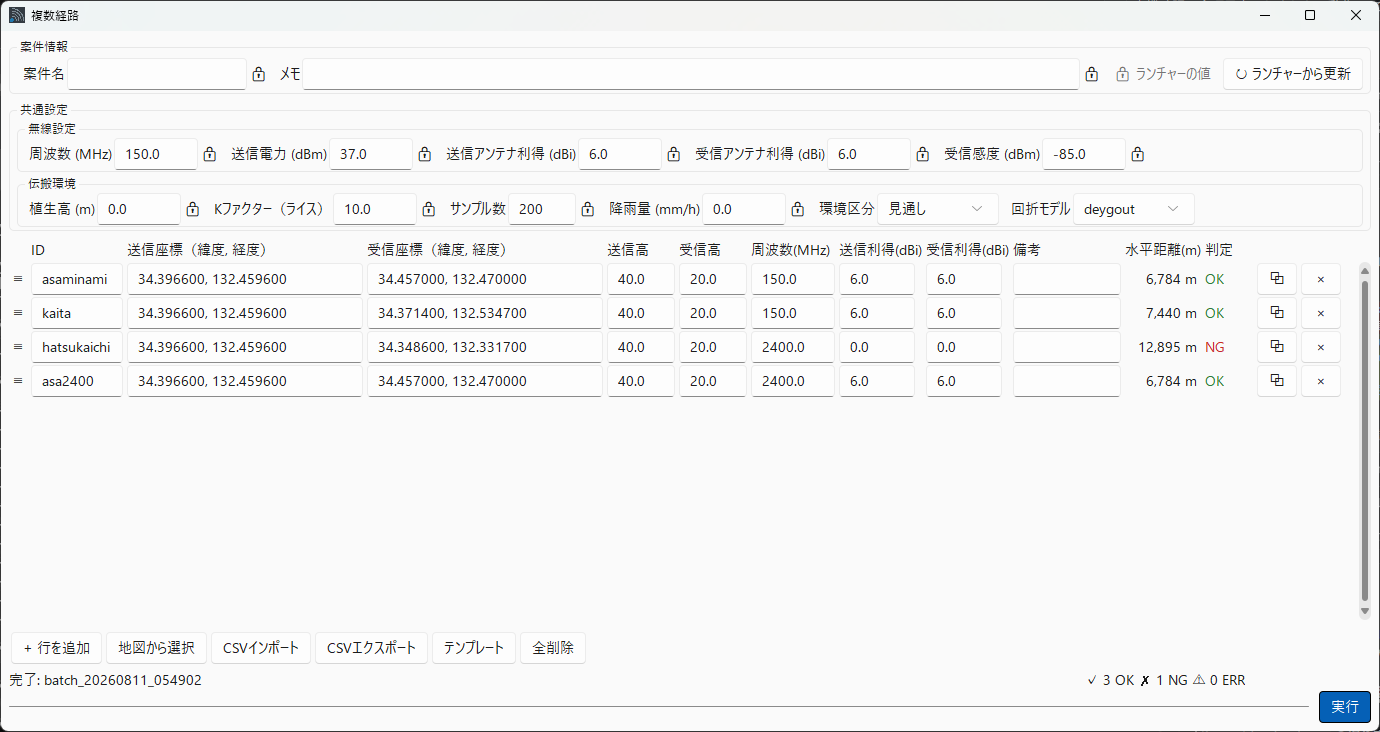
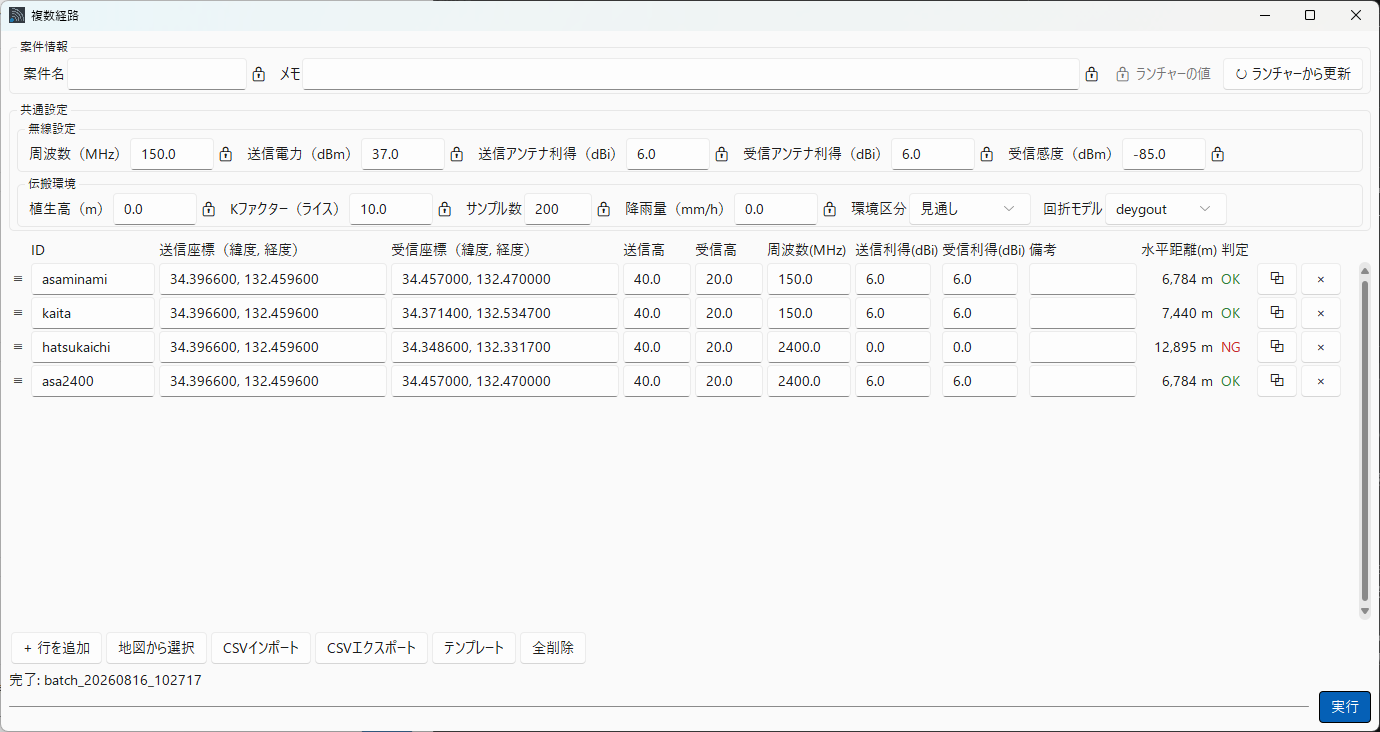
chore: 2.8RC1 へ（単位の括弧を単一ソース化・スクショ差し替え・B-100 起票）
版:
- core/version.py APP_VERSION を 2.8RC1
- CHANGELOG 見出しを（ベータ）→（RC）、ドキュメント/開発環境の節を追加

単位の括弧（ユーザー指示で RC1 に入れる）:
条件探索の画面とレポートだけ半角括弧が残っており、2.8 の「共通設定の括弧を
全角に統一した」という宣言と食い違っていた。直書きは画面 2・レポート 3 の
計 5 か所。括り方そのものを i18n の unit_wrap が持つ形にし（ja は全角・
en は半角＝言語ごとに違う）、report_scenario.with_unit() へ集約した。
再発防止ゲートと変異検証つき。

公開文書:
- 開発者文書（日英）に独立レビューの回し方と、その限界の開示を追加
- スクショ 3 枚を差し替え（複数経路＝帯の集計撤去と全角括弧／条件探索＝全角
  括弧／中継経路＝2.8 で入った ＋ ボタン）
- CHANGELOG の誤記を訂正＝「ウィンドウは大きさを変えられない」はランチャー
  限定で、条件探索・中継経路は可変（利用者に回復手段を狭く伝えていた）

B-100 を起票（行き先 2.9）＝中継経路の判定列が実機だけ右へ見切れる。
開発機では再現せず、処方を 2 回出して 2 回とも外したので、原因未特定のまま
実機で数字を取ることを着手条件にした。

diff --git a/report/report_scenario.py b/report/report_scenario.py
@@ -71,11 +71,21 @@ def _param_text(key: str, value) -> str:
     return f"{value:g}" if isinstance(value, (int, float)) else str(value)
 
 
+def with_unit(name: str, unit: str) -> str:
+    """項目名に単位を添える（例: ``送信アンテナ高（m）`` / ``TX height (m)``）。
+
+    ⚠ **括弧の字を直書きしない。** 日本語は全角・英語は半角と*言語ごとに違う*ので、
+    括り方そのものを i18n（`unit_wrap`）が持つ。直書きすると、同じ量の単位が
+    ウィンドウやレポートによって違う字で出る——**2.8 で「共通設定の括弧を全角に
+    統一した」と宣言しながら、条件探索の画面とレポートだけ半角で残っていた**
+    （2.8RC1 で処置）。宣言は口の全数を数えないと効かない。
+    """
+    return name + i18n.t("unit_wrap").format(unit=unit) if unit else name
+
+
 def axis_label(axis: str) -> str:
-    """スイープ軸の見出し（例: ``送信アンテナ高 (m)``）を返す。"""
-    name = i18n.t(f"scn_axis_{axis}")
-    unit = AXIS_UNITS.get(axis, "")
-    return f"{name} ({unit})" if unit else name
+    """スイープ軸の見出し（例: ``送信アンテナ高（m）``）を返す。"""
+    return with_unit(i18n.t(f"scn_axis_{axis}"), AXIS_UNITS.get(axis, ""))
 
 
 # ============================================================
@@ -296,8 +306,9 @@ def _sweep_table(run: scn.ScenarioRun) -> str:
     ＝連続的な変化を上から下へ追えることがスイープ表の価値だから。
     """
     head = "".join(f"<th>{h}</th>" for h in (
-        axis_label(run.axis), i18n.t("html_rx_level") + " (dBm)",
-        i18n.t("html_act_margin") + " (dB)", i18n.t("html_total_loss") + " (dB)",
+        axis_label(run.axis), with_unit(i18n.t("html_rx_level"), "dBm"),
+        with_unit(i18n.t("html_act_margin"), "dB"),
+        with_unit(i18n.t("html_total_loss"), "dB"),
         i18n.t("html_col_f1"), i18n.t("html_status"),
     ))
     rows = "".join(_sweep_row(p) for p in run.points)

diff --git a/tests/test_scenario.py b/tests/test_scenario.py
@@ -569,9 +569,17 @@ class TestScenarioReport:
         assert body.startswith("-95")
 
     def test_axis_label_carries_the_unit(self):
+        """単位が付くこと。**括弧の字は言語ごとに違う**（2.8RC1）。
+
+        ja は全角（`送信アンテナ高（m）`）・en は半角（`TX antenna height (m)`）で、
+        括り方は i18n の `unit_wrap` が単一ソース。⇒ 字を直書きして照合しない。
+        """
         i18n.set_lang("ja")
-        assert report_scenario.axis_label("h_tx").endswith("(m)")
-        assert report_scenario.axis_label("rain_rate").endswith("(mm/h)")
+        assert report_scenario.axis_label("h_tx").endswith("（m）")
+        assert report_scenario.axis_label("rain_rate").endswith("（mm/h）")
+        i18n.set_lang("en")
+        assert report_scenario.axis_label("h_tx").endswith(" (m)")
+        i18n.set_lang("ja")
 
     def test_every_sweep_axis_has_a_label_and_unit_entry(self):
         """軸を足したとき i18n / 単位表の追随漏れを落とす。"""
@@ -624,7 +632,10 @@ class TestScenarioWindowSmoke:
             assert win._sweep_axis.get() == "h_tx"
             # 画面の項目名は**単位つき**（出所は report_scenario.AXIS_UNITS ＝
             # レポートと同じ一覧。画面だけ単位が無いと何を入れる欄か分からない）。
-            assert report_scenario.axis_label("h_tx") == i18n.t("scn_axis_h_tx") + " (m)"
+            # ⚠ 括弧の字は**言語ごとに違う**ので直書きしない（2.8RC1）。
+            #    ja は全角・en は半角で、括り方は i18n の `unit_wrap` が単一ソース。
+            assert report_scenario.axis_label("h_tx") == report_scenario.with_unit(
+                i18n.t("scn_axis_h_tx"), "m")
         finally:
             win.destroy(); root.destroy()
 

diff --git a/tests/test_ui_consistency.py b/tests/test_ui_consistency.py
@@ -1708,3 +1708,34 @@ def test_refreshing_common_settings_clears_results_only_when_they_differ():
         )
     finally:
         root.destroy()
+
+
+# ============================================================
+# 単位の括弧を直書きしない（2.8RC1）
+# ============================================================
+def test_unit_parentheses_are_not_hardcoded():
+    """⛔ `名前 + " (dBm)"` の直書きを禁じる（括り方は i18n の `unit_wrap`）。
+
+    🔴 **2.8 は「共通設定のラベルの括弧を全角に統一した」と宣言したのに、
+    条件探索の画面とレポートだけ半角で残っていた**（画面 2 か所・レポート 3 か所）。
+    同じ量の単位が、窓によって `周波数（MHz）` と `周波数 (MHz)` の 2 通りで出る。
+    ⇒ 宣言は**口の全数を数えないと効かない**（[[feedback-user-examples-are-classes]]）。
+
+    ⚠ 括弧の字は**言語ごとに違う**（ja は全角・前の空白なし／en は半角・前に空白）
+    ので、直書きは「日本語を直すと英語が壊れる」形でもある。
+    """
+    import re as _re
+    from pathlib import Path as _Path
+
+    root = _Path(__file__).resolve().parents[1]
+    bad: list[str] = []
+    pat = _re.compile(r'\+\s*"\s*\([A-Za-z%/µ]+\)"')
+    for d in ("views", "report"):
+        for path in (root / d).glob("*.py"):
+            for n, line in enumerate(path.read_text(encoding="utf-8").splitlines(), 1):
+                if pat.search(line):
+                    bad.append(f"{path.relative_to(root)}:{n}: {line.strip()}")
+    assert not bad, (
+        "単位の括弧が直書きされている（report_scenario.with_unit を使う）:\n"
+        + "\n".join(bad)
+    )

diff --git a/core/i18n.py b/core/i18n.py
@@ -246,6 +246,10 @@ _STRINGS: dict[str, dict[str, str]] = {
         "html_single_mode":     "Single Mode",  # HTML footer (per-path)
         "html_report_memo":     "Note:",
 
+        # 単位の括り方。**言語ごとに字が違う**ので i18n が持つ（日本語は全角・
+        # 前の空白なし／英語は半角・前に空白）。ここを 1 か所にしておかないと、
+        # 画面とレポートで同じ量の単位が違う字で出る（2.8RC1 で実際にそうなった）。
+        "unit_wrap":            " ({unit})",
         "html_status":          "Status",
         "html_rx_level":        "RX Level",
         "html_act_margin":      "Act Margin",
@@ -727,6 +731,7 @@ _STRINGS: dict[str, dict[str, str]] = {
         "html_batch_mode":      "一括シミュレーション",
         "html_single_mode":     "個別シミュレーション",
         "html_report_memo":     "メモ:",
+        "unit_wrap":            "（{unit}）",
         "html_status":          "判定",
         "html_rx_level":        "受信レベル",
         "html_act_margin":      "マージン",

diff --git a/views/scenario.py b/views/scenario.py
@@ -464,8 +464,9 @@ class ScenarioWindow(tk.Toplevel):
         self._tree = ttk.Treeview(self._result_box, columns=cols, show="headings",
                                   height=_RESULT_ROWS,
                                   style=theme.table_style(self))
-        headings = (i18n.t("scn_col_label"), i18n.t("html_rx_level") + " (dBm)",
-                    i18n.t("html_act_margin") + " (dB)", i18n.t("html_status"))
+        _unit = report_scenario.with_unit
+        headings = (i18n.t("scn_col_label"), _unit(i18n.t("html_rx_level"), "dBm"),
+                    _unit(i18n.t("html_act_margin"), "dB"), i18n.t("html_status"))
         widths = (220, 130, 130, 80)
         for col, head, w in zip(cols, headings, widths):
             self._tree.heading(col, text=head)

diff --git a/CHANGELOG.md b/CHANGELOG.md
@@ -29,7 +29,7 @@
 
 ### 修正
 
-- 🔴 **ウィンドウが起動時にデスクトップの外へはみ出ることがあったのを直した**（`2.8b2`）。Windows は新しいウィンドウを**少しずつ斜め下へずらして置く**ため、2 つ目以降の置き場所ではランチャーや条件探索のように背の高いウィンドウの**下端が画面の外に出て**いた。ボタン列に手が届かず、ウィンドウは大きさを変えられないので、**タイトルバーを掴んで上へ動かす以外に回復手段が無かった**。今後は**画面からはみ出す位置に置かれた場合だけ、入る位置へ引き戻す**。⚠ **画面に収まっているウィンドウは動かさない**（自分で置いた場所はそのまま残る）。⚠ **ダイアログも同じ**——親ウィンドウが画面の下端に寄っているときに、中央合わせで外へ出ていた。⚠ **モニタが複数ある場合は、そのウィンドウが載っているモニタの中で収める**——サブモニタへ避けたウィンドウがメインのモニタへ飛んでくることはない。⚠ **ただしサブモニタを取り外したあとに残ったウィンドウは、メインのモニタへ引き戻す**（そのままでは画面のどこにも描かれず、掴むこともできないため）。
+- 🔴 **ウィンドウが起動時にデスクトップの外へはみ出ることがあったのを直した**（`2.8b2`）。Windows は新しいウィンドウを**少しずつ斜め下へずらして置く**ため、2 つ目以降の置き場所ではランチャーや条件探索のように背の高いウィンドウの**下端が画面の外に出て**いた。ボタン列に手が届かず、**ランチャーは大きさを変えられない**ので、そこではタイトルバーを掴んで上へ動かす以外に回復手段が無かった。今後は**画面からはみ出す位置に置かれた場合だけ、入る位置へ引き戻す**。⚠ **画面に収まっているウィンドウは動かさない**（自分で置いた場所はそのまま残る）。⚠ **ダイアログも同じ**——親ウィンドウが画面の下端に寄っているときに、中央合わせで外へ出ていた。⚠ **モニタが複数ある場合は、そのウィンドウが載っているモニタの中で収める**——サブモニタへ避けたウィンドウがメインのモニタへ飛んでくることはない。⚠ **ただしサブモニタを取り外したあとに残ったウィンドウは、メインのモニタへ引き戻す**（そのままでは画面のどこにも描かれず、掴むこともできないため）。
 - 🔴 **子ウィンドウを別の表示スケールのモニタへ移すと、そのウィンドウだけ字の大きさが追従しなかったのを直した**。**移した先のモニタに合わせてアプリ全体の字が揃う**ようになる。⚠ **ウィンドウごとに別々の大きさにはできない**（フォントはアプリに 1 組しか持てないため）。
 - **表示スケールを 100% → 150% → 100% と戻したとき、ウィンドウの幅だけ 12px 広いまま残っていたのを直した**。
 - **中継経路で、地点の名前を変えても区間表の見出しが古い名前のまま残っていたのを直した**（数値は正しく、同じウィンドウの中で 2 つの表が違う名前を名乗っていた）。
